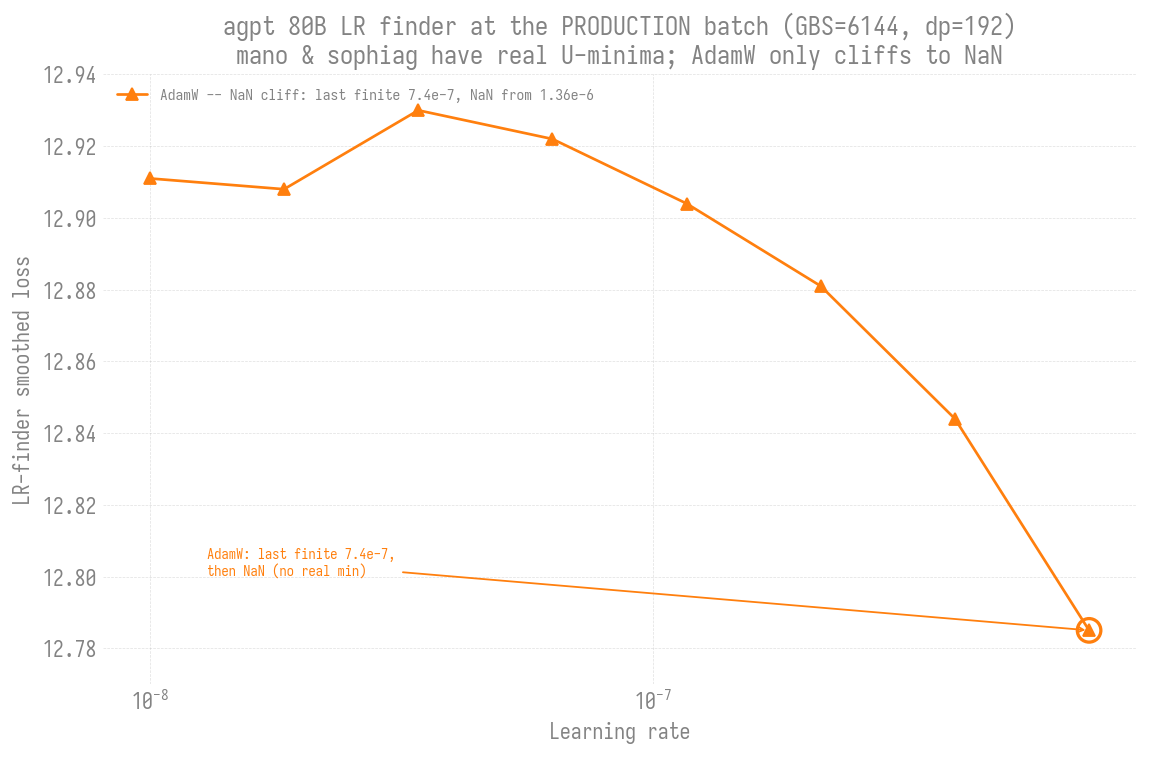
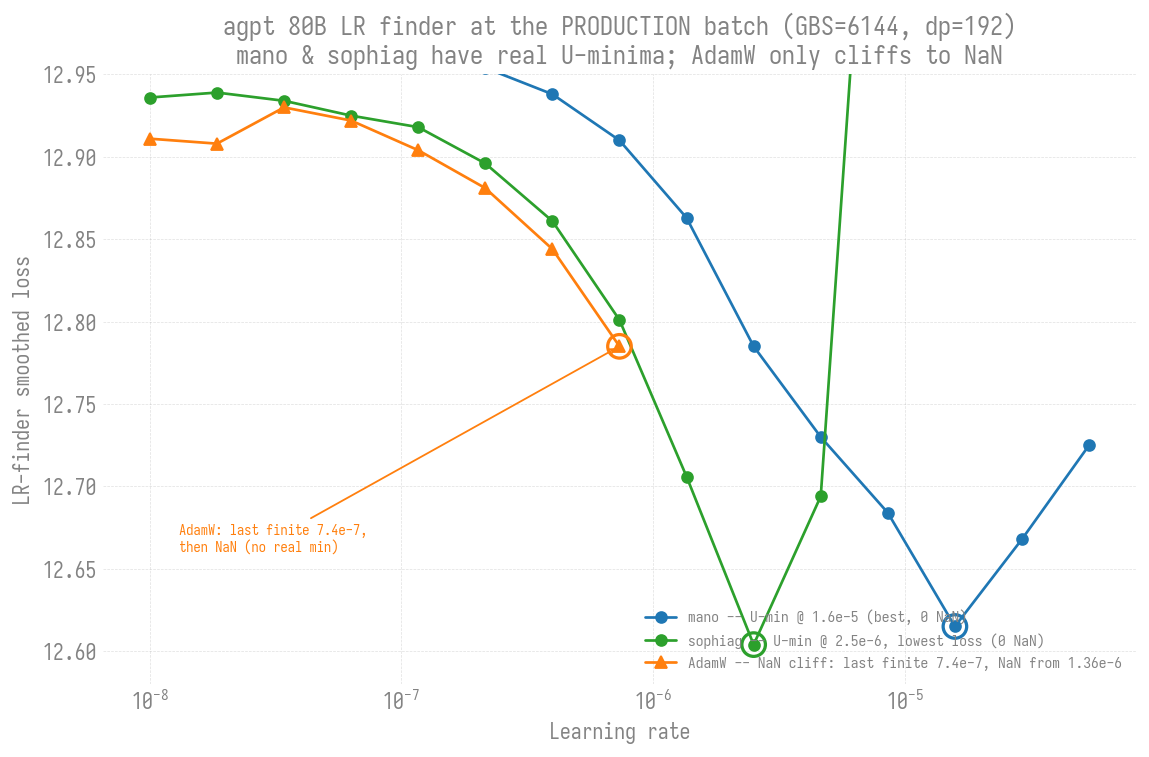
fix(ezpz/lr-finder): restore mano/sophiag curves on 80B GBS6144 chart
The mano & sophiag curves the title promises were missing: the finder
CSVs live under outputs/ (gitignored), so they only ever existed on the
Sunspot checkout and this clone drew AdamW alone. Recovered the exact
dated-record values (Sunspot jobs 12469631/12469632, GBS=6144, ws=768)
and HARDCODED all three curves into the plotter -- matching the existing
AdamW precedent -- so it no longer depends on gitignored CSVs and cannot
silently regress on a fresh clone. Widened ylim to 12.58-12.95 to show
the real U-minima (mano 12.615@1.6e-5, sophiag 12.604@2.5e-6) and moved
the legend to lower-right.

diff --git a/torchtitan/experiments/ezpz/scripts/plot_lr_trend.py b/torchtitan/experiments/ezpz/scripts/plot_lr_trend.py
@@ -444,24 +444,32 @@ def plot_2b_all_optimizers(out: Path, gbs: int = 6144) -> None:
 
 
 def plot_80b_all_optimizers(out: Path) -> None:
-    base = "outputs/lr_finder/ezpz/ezpz.agpt/80B"
-    # adamw 6144 from the dated record (live CSV overwritten by trend probes)
-    adamw_lr = [1.0e-8, 1.848e-8, 3.415e-8, 6.31e-8, 1.166e-7, 2.154e-7,
-                3.981e-7, 7.356e-7]
-    adamw_loss = [12.911, 12.908, 12.930, 12.922, 12.904, 12.881, 12.844,
-                  12.785]
+    # All curves are dated-record values (Sunspot jobs 12469631/12469632, GBS=6144,
+    # world_size=768, 2026-06-26/27). They are HARDCODED, not CSV-loaded: the live
+    # CSVs live under outputs/ which is gitignored, so a fresh clone never has them
+    # (that is exactly how this chart broke -- it silently drew AdamW alone and the
+    # annotation autoscaled the axis). Values are the smoothed curves emitted by the
+    # finder loader; the U-minimum index is marked with an open circle.
+    LR15 = [1.0e-8, 1.848e-8, 3.415e-8, 6.31e-8, 1.166e-7, 2.154e-7, 3.981e-7,
+            7.356e-7, 1.359e-6, 2.512e-6, 4.642e-6, 8.577e-6, 1.585e-5, 2.929e-5,
+            5.412e-5]
+    # adamw only stays finite through 7.4e-7 (8 points), then NaN -- no real min.
+    adamw_lr = LR15[:8]
+    adamw_loss = [12.911, 12.908, 12.930, 12.922, 12.904, 12.881, 12.844, 12.785]
+    mano_lr, sophiag_lr = LR15, LR15
+    mano_loss = [12.978, 12.976, 12.974, 12.97, 12.964, 12.954, 12.938, 12.91,
+                 12.863, 12.785, 12.73, 12.684, 12.615, 12.668, 12.725]
+    sophiag_loss = [12.936, 12.939, 12.934, 12.925, 12.918, 12.896, 12.861, 12.801,
+                    12.706, 12.604, 12.694, 13.278, 13.612, 13.955, 14.278]
     fig, ax = plt.subplots(figsize=(9, 6))
-    for opt, lab in [("mano", "mano -- U-min @ 1.6e-5 (best, 0 NaN)"),
-                     ("sophiag", "sophiag -- U-min @ 2.5e-6, lowest loss (0 NaN)")]:
-        p = f"{base}/{opt}/lr_finder_data.csv"
-        if not Path(p).exists():
-            continue
-        fx, fy_raw = _finite(*load_curve(p))
-        fy = _smooth(fy_raw)
+    for opt, fx, fy, lab in [
+        ("mano", mano_lr, mano_loss, "mano -- U-min @ 1.6e-5 (best, 0 NaN)"),
+        ("sophiag", sophiag_lr, sophiag_loss,
+         "sophiag -- U-min @ 2.5e-6, lowest loss (0 NaN)"),
+    ]:
         mi = min(range(len(fy)), key=lambda k: fy[k])
-        mlr, mloss = fx[mi], fy[mi]
         ax.plot(fx, fy, "-o", ms=6, color=OPT_COLOR[opt], label=lab)
-        ax.scatter([mlr], [mloss], s=170, facecolors="none",
+        ax.scatter([fx[mi]], [fy[mi]], s=170, facecolors="none",
                    edgecolors=OPT_COLOR[opt], linewidths=1.8, zorder=4)
     # AdamW uses its canonical orange (consistent with every other chart); the
     # ^ marker + dashed annotation distinguish it as the NaN-cliff line.
@@ -470,19 +478,21 @@ def plot_80b_all_optimizers(out: Path) -> None:
     ax.scatter([7.356e-7], [12.785], s=170, facecolors="none",
                edgecolors=OPT_COLOR["adamw"], linewidths=1.8, zorder=6)
     ax.annotate("AdamW: last finite 7.4e-7,\nthen NaN (no real min)",
-                xy=(7.356e-7, 12.785), xytext=(1.3e-8, 12.80), fontsize=8,
+                xy=(7.356e-7, 12.785), xytext=(1.3e-8, 12.66), fontsize=8,
                 color=OPT_COLOR["adamw"],
                 arrowprops=dict(arrowstyle="->", color=OPT_COLOR["adamw"]))
     ax.set_xscale("log")
-    # Keep the y-axis on the actual loss band: the annotation text must sit
-    # INSIDE the data range or matplotlib autoscales down to it and crushes
-    # the curve into a thin strip (this is exactly what broke the chart).
-    ax.set_ylim(12.77, 12.94)
+    # Pin the y-axis to the real loss band (mano/sophiag U-minima ~12.60-12.62
+    # up to the ~12.94 shoulder). An explicit ylim is REQUIRED: if the
+    # mano/sophiag CSVs are ever missing again, only the AdamW curve is drawn
+    # and the annotation text would otherwise autoscale the axis and crush the
+    # curve into a thin strip (the original bug).
+    ax.set_ylim(12.58, 12.95)
     ax.set_xlabel("Learning rate")
     ax.set_ylabel("LR-finder smoothed loss")
     ax.set_title("agpt 80B LR finder at the PRODUCTION batch (GBS=6144, dp=192)\n"
                  "mano & sophiag have real U-minima; AdamW only cliffs to NaN")
-    ax.legend(fontsize=8.5, loc="upper left")
+    ax.legend(fontsize=8.5, loc="lower right")
     fig.tight_layout()
     fig.savefig(out, dpi=130, bbox_inches="tight")
     plt.close(fig)
